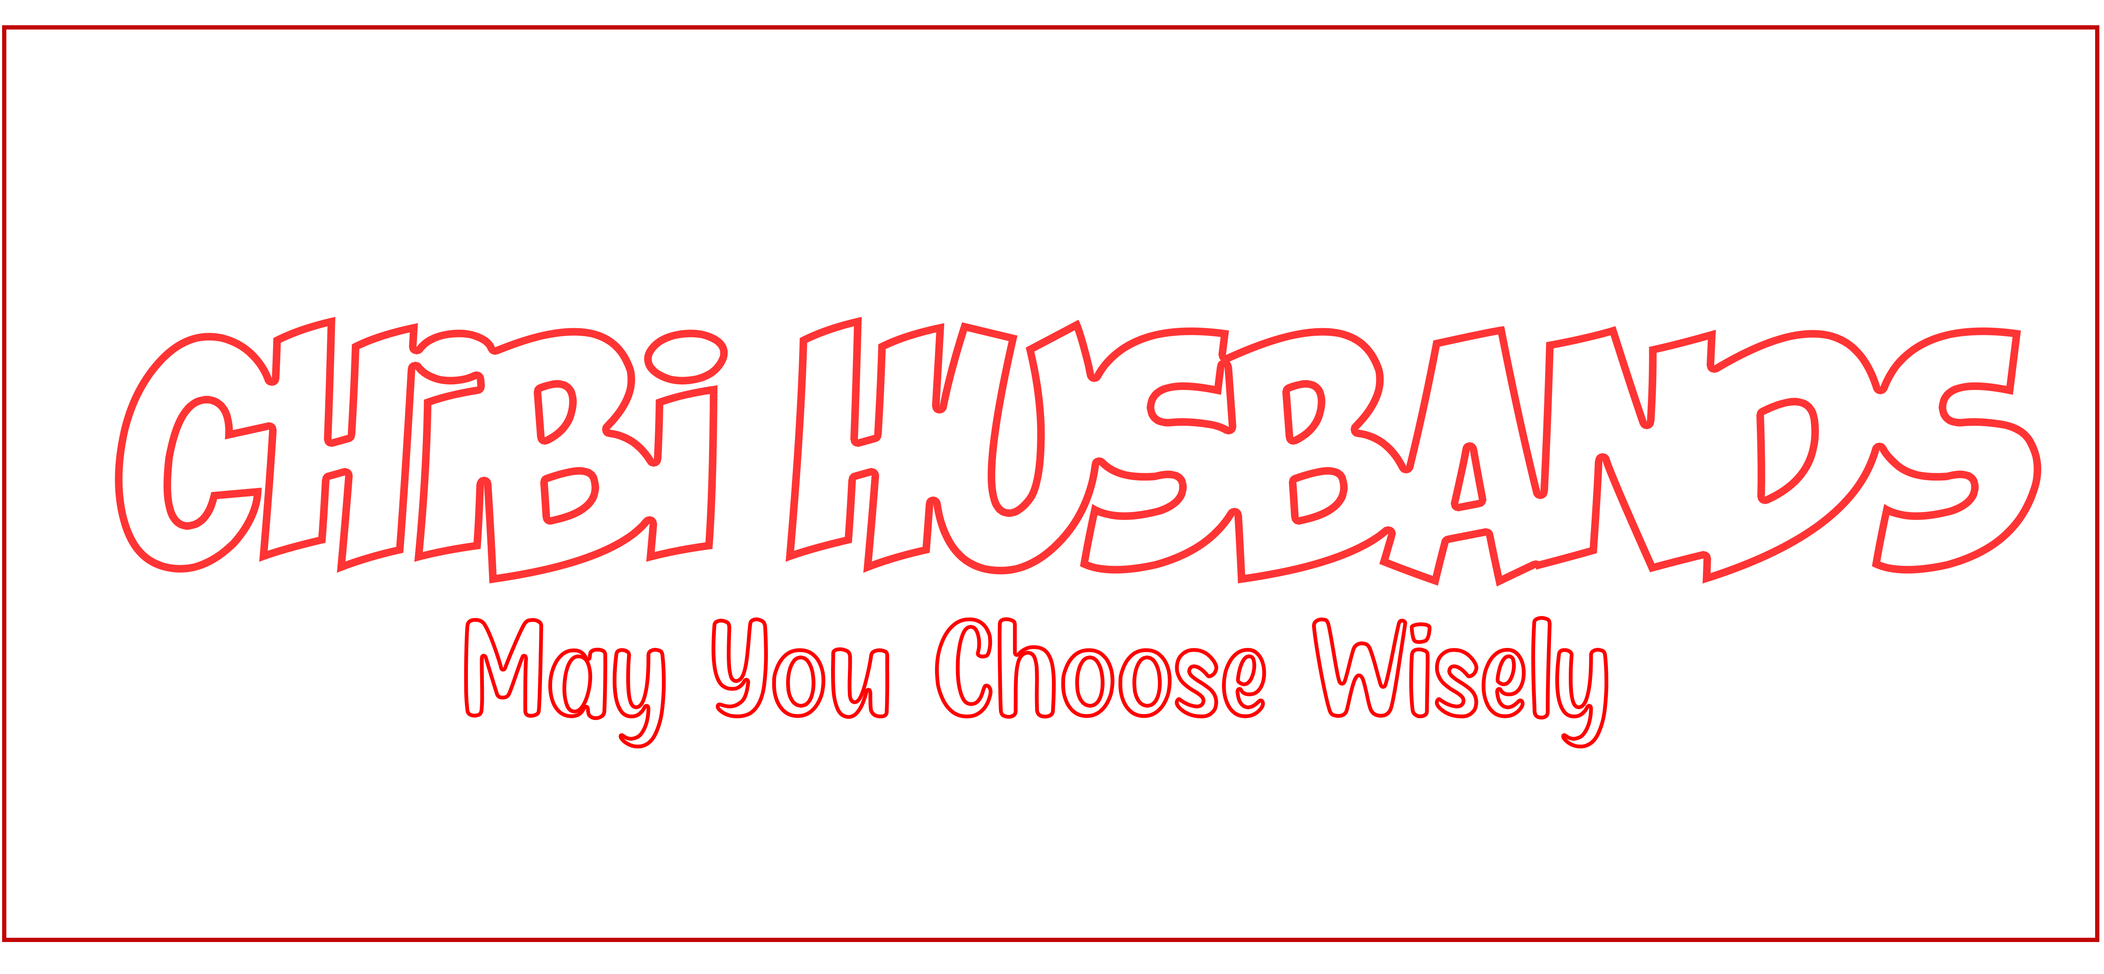
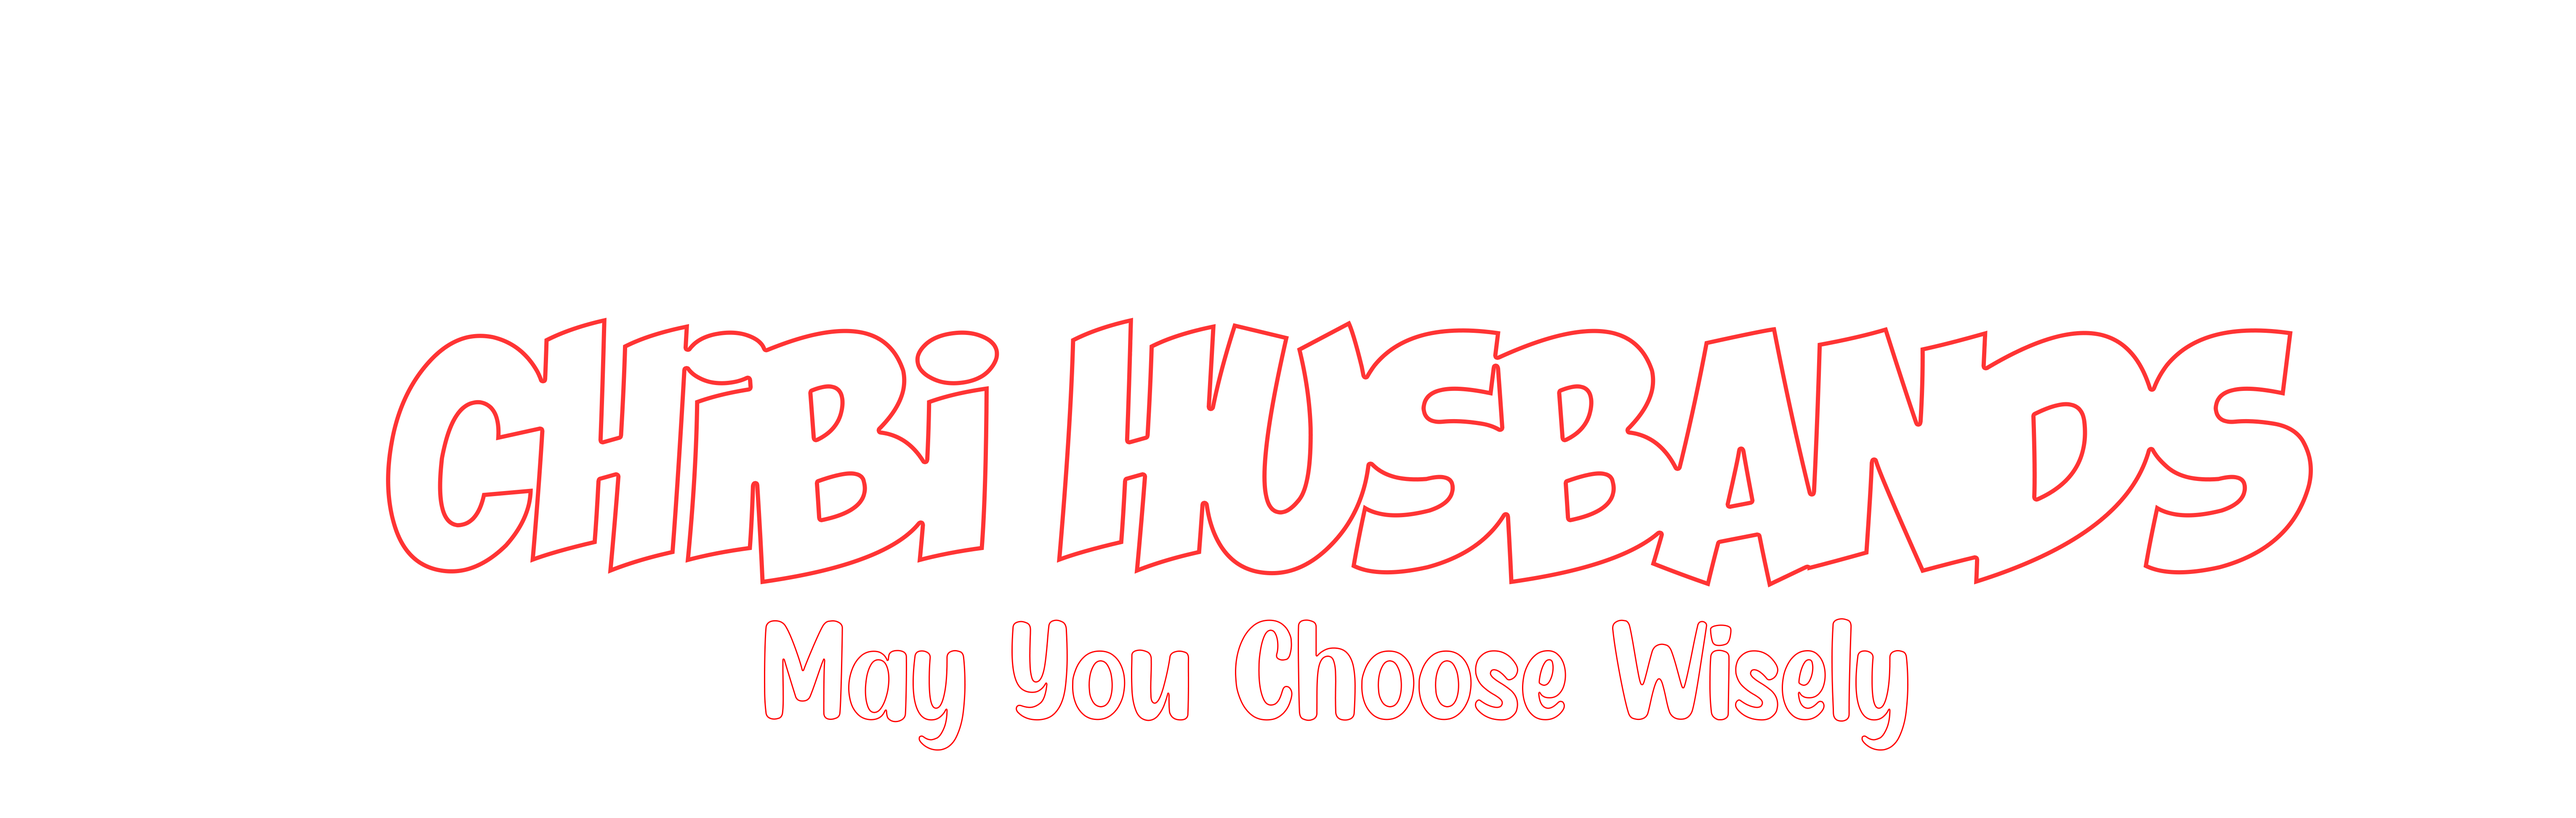
made changes to layout and fixed button

diff --git a/index.html b/index.html
@@ -3,7 +3,7 @@
     <head>
         <title>Welcome To Chibi Husbands!</title>
         <div class = "titleimg">
-            <img src = "images/ChibiHusbands-Title.png" style = "height: 100%">
+            <img src = "images/ChibiHusbands-Title.png" style = "height: 90%">
         </div>
     </head>
     <body>
@@ -33,7 +33,7 @@
                 <li>He will help out with chores and cooking</li>
             </ul>
             <div class = "button">
-                <p id = "husbandChoice">Would You Choose This Husband?</p>
+                <p id = "husbandChoice">Would You Choose Ox?</p>
                 <button id = "chooseYes">Yes</button>
                 <button id = "chooseNo">No</button>
             </div>
@@ -55,9 +55,9 @@
                     <li>He will do anything for you (except cook or do chores)</li>
                 </ul>
                 <div class = "button">
-                    <p id = "husbandChoice">Would You Choose This Husband?</p>
-                    <button id = "chooseYes">Yes</button>
-                    <button id = "chooseNo">No</button>
+                    <p id = "husbandChoice2">Would You Choose Riel?</p>
+                    <button id = "chooseYes2">Yes</button>
+                    <button id = "chooseNo2">No</button>
                 </div>
                 </article>
                 </div>
@@ -73,13 +73,13 @@
                     <ul>
                         <li>He will do the laundry</li>
                         <li>He is a trained chef</li>
-                        <li>He is a closet romantic and will dote on you</li>
-                        <li>Just deal with his terrible jokes</li>
+                        <li>He is a closet romantic and you will be treated like a Queen</li>
+                        <li>He just asks that you deal with his terrible jokes</li>
                     </ul>
                     <div class = "button">
-                        <p id = "husbandChoice">Would You Choose This Husband?</p>
-                        <button id = "chooseYes">Yes</button>
-                        <button id = "chooseNo">No</button>
+                        <p id = "husbandChoice3">Would You Choose Tyger?</p>
+                        <button id = "chooseYes3">Yes</button>
+                        <button id = "chooseNo3">No</button>
                     </div>
                     </article>
                     </div>
@@ -99,9 +99,9 @@
                             <li>He will whisk you away to exotic getaways</li>
                         </ul>
                         <div class = "button">
-                            <p id = "husbandChoice">Would You Choose This Husband?</p>
-                            <button id = "chooseYes">Yes</button>
-                            <button id = "chooseNo">No</button>
+                            <p id = "husbandChoice4">Would You Choose Aiden?</p>
+                            <button id = "chooseYes4">Yes</button>
+                            <button id = "chooseNo4">No</button>
                         </div>
                         </article>
                         </div>
@@ -121,9 +121,9 @@
                                 <li>He will provide for his family</li>
                             </ul>
                             <div class = "button">
-                                <p id = "husbandChoice">Would You Choose This Husband?</p>
-                                <button id = "chooseYes">Yes</button>
-                                <button id = "chooseNo">No</button>
+                                <p id = "husbandChoice5">Would You Choose Azibo?</p>
+                                <button id = "chooseYes5">Yes</button>
+                                <button id = "chooseNo5">No</button>
                             </div>
                             </article>
                             </div>
@@ -143,9 +143,9 @@
                                     <li>He will steal your heart with pure chemistry</li>
                                 </ul>
                                 <div class = "button">
-                                    <p id = "husbandChoice">Would You Choose This Husband?</p>
-                                    <button id = "chooseYes">Yes</button>
-                                    <button id = "chooseNo">No</button>
+                                    <p id = "husbandChoice6">Would You Choose Jeremiah?</p>
+                                    <button id = "chooseYes6">Yes</button>
+                                    <button id = "chooseNo6">No</button>
                                 </div>
                                 </article>
                                 </div>
@@ -165,9 +165,9 @@
                                         <li>He has a stutter, which just enhances his charming Scottish accent</li>
                                     </ul>
                                     <div class = "button">
-                                        <p id = "husbandChoice">Would You Choose This Husband?</p>
-                                        <button id = "chooseYes">Yes</button>
-                                        <button id = "chooseNo">No</button>
+                                        <p id = "husbandChoice7">Would You Choose Sergio?</p>
+                                        <button id = "chooseYes7">Yes</button>
+                                        <button id = "chooseNo7">No</button>
                                     </div>
                                     </article>
                                     </div>
@@ -182,14 +182,14 @@
                                         <div class = "text">
                                         <ul>
                                             <li>He has strong family bonds</li>
-                                            <li>He is a vampire, so watch your neck</li>
+                                            <li>He is a vampire... watch your neck</li>
                                             <li>He is a very sucessful business man and will lavish you with gifts</li>
                                             <li>He has impeccable taste (he dresses to the nines)</li>
                                         </ul>
                                         <div class = "button">
-                                            <p id = "husbandChoice">Would You Choose This Husband?</p>
-                                            <button id = "chooseYes">Yes</button>
-                                            <button id = "chooseNo">No</button>
+                                            <p id = "husbandChoice8">Would You Choose Cross?</p>
+                                            <button id = "chooseYes8">Yes</button>
+                                            <button id = "chooseNo8">No</button>
                                         </div>
                                         </article>
                                         </div>

diff --git a/style.css b/style.css
@@ -47,14 +47,17 @@ p {
     display: block;
     margin-left: auto;
     margin-right: auto;
-    border: 3px solid rgb(143, 31, 31);
+    border: 1px solid rgb(143, 31, 31);
+    border-radius: 25px;
+    box-shadow: 2px 2px;
 }
 
 .button {
     height: 75px;
-    width: 225px;
+    width: 175px;
     position: center;
-    border: 3px solid rgb(143, 31, 31);
+    border-radius: 15px;
+    border: 2px solid rgb(143, 31, 31);
     background-color: white;
     text-align: center;
     top: 50%;
@@ -63,10 +66,9 @@ p {
 
   .container {
     display: flex;
-    position: relative;
     justify-content: center;
     padding: 3%;
-    background-color: rgb(255, 187, 187);
+    background-color: rgb(248, 233, 233);
   }
 
   .text {
@@ -78,7 +80,11 @@ p {
 
   .titleimg {
       height: 300px;
-      width: 200px;
-      object-fit: scale-down;
-      position:relative;
+      width: 100%;
+      display: flex;
+      justify-content: center;
+  }
+
+  .textbox {
+    right: 300px;
   }

diff --git a/script.js b/script.js
@@ -30,7 +30,7 @@ function init () {
             paragraph.innerHTML = "No hard feelings! (Silently judging you)"
             }
           } 
-        noButton.addEventListener("click", confirmMarriage);
+        noButton.addEventListener("click", confirmMarriage);   
 
 }
 
